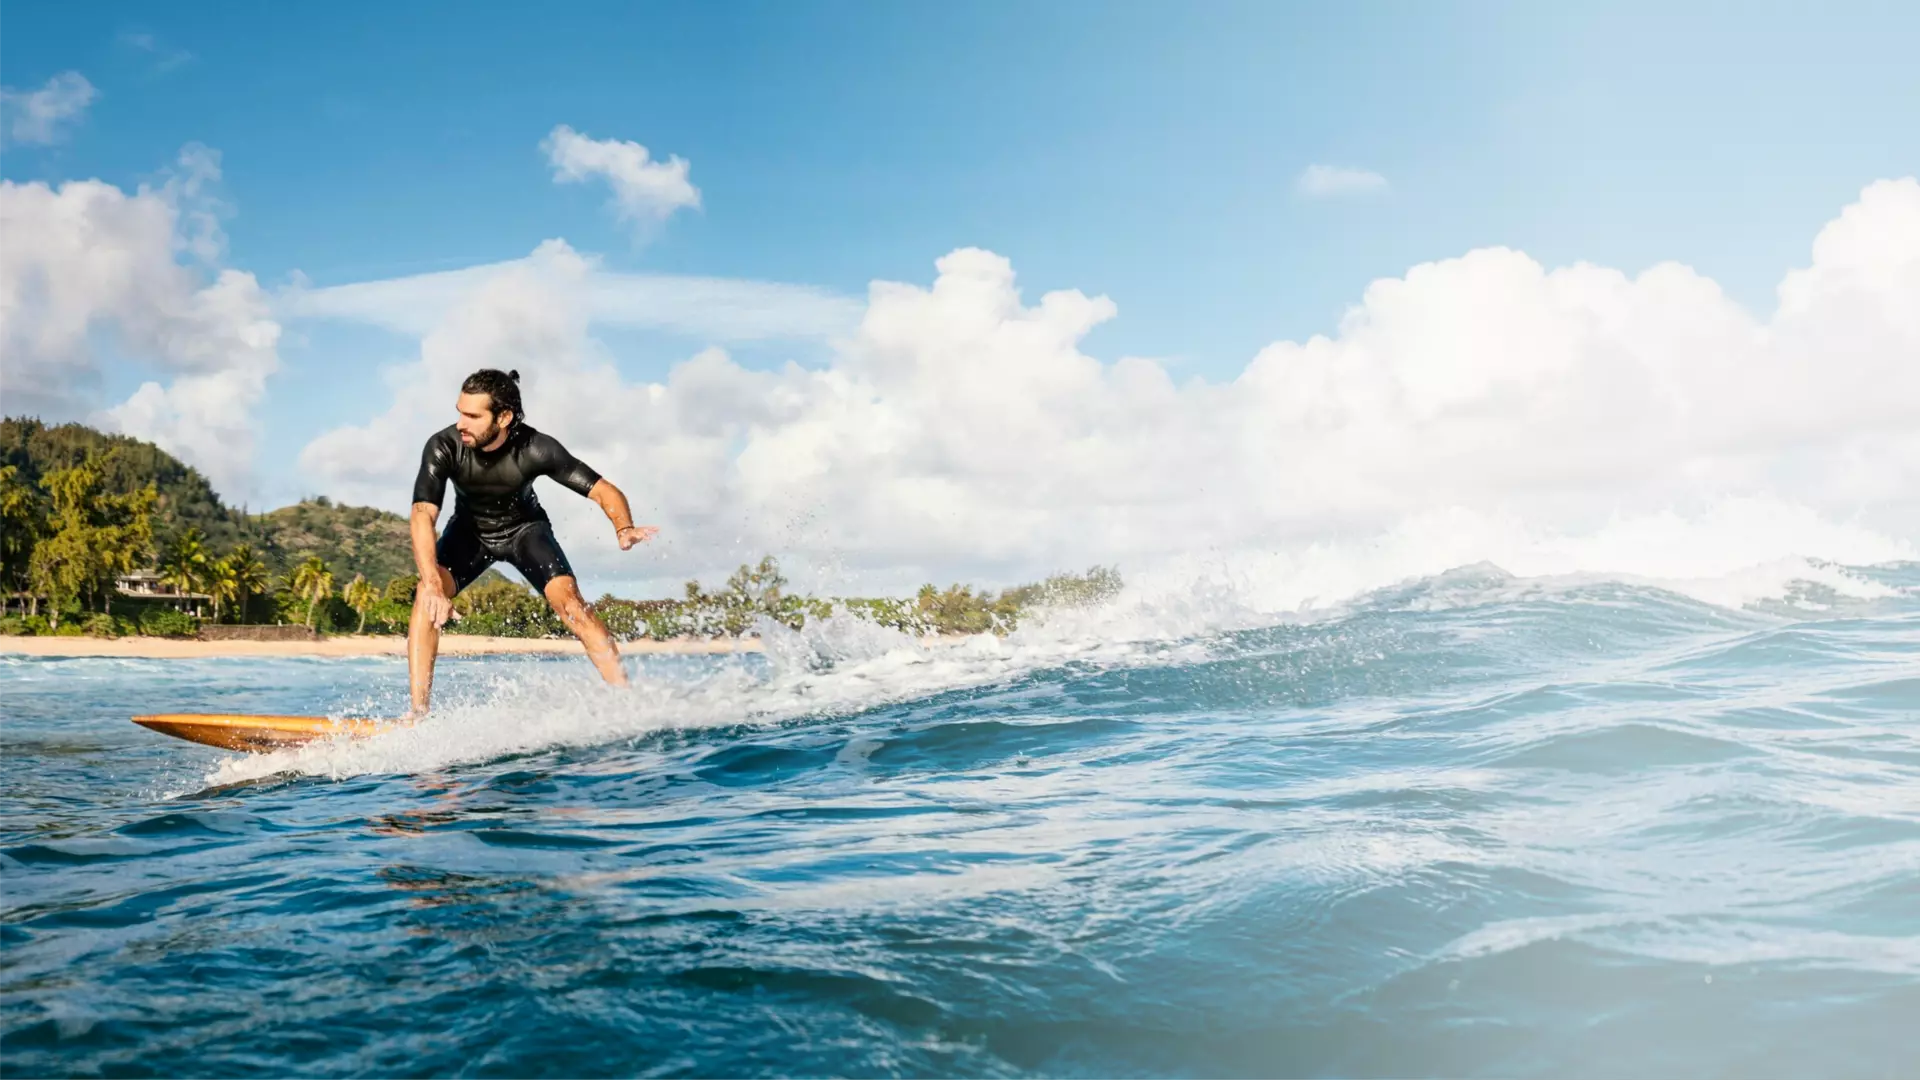
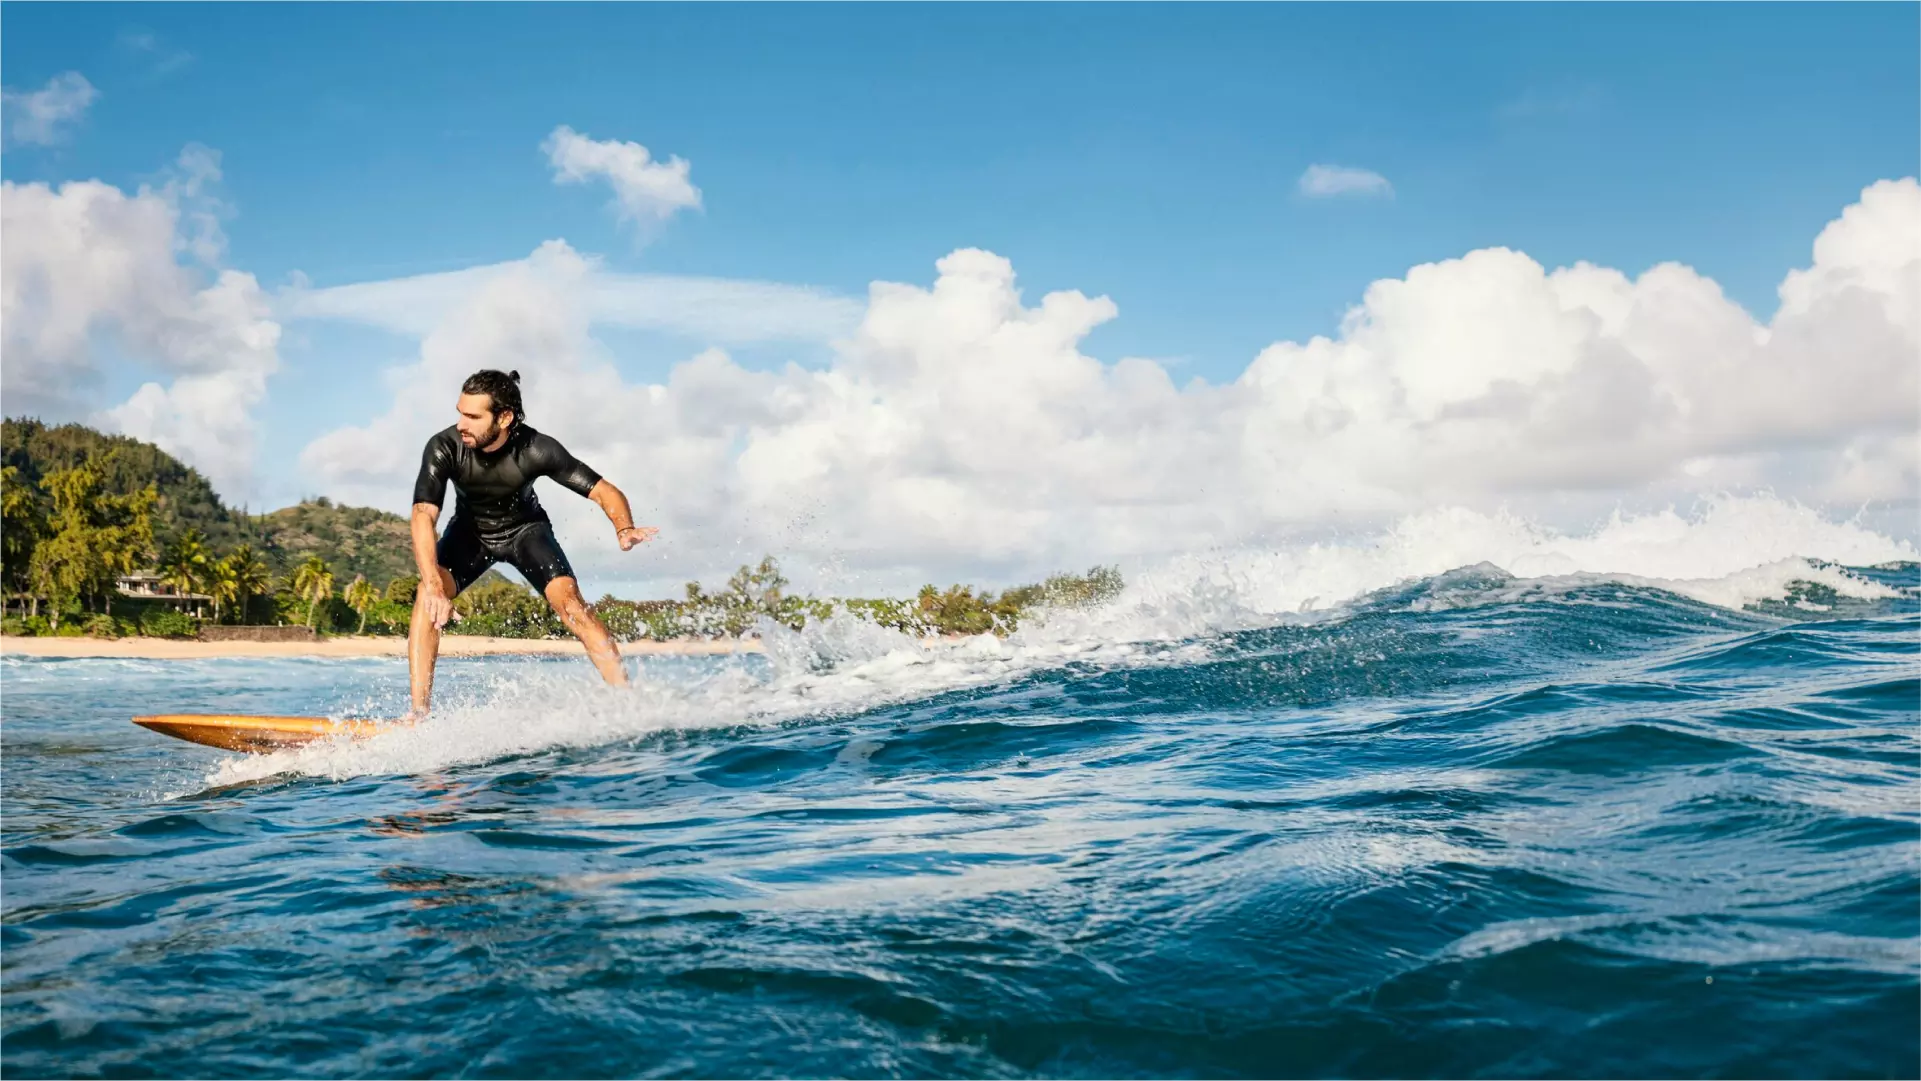
feat: update background images and styles for quiz and main pages; modify color variables

diff --git a/src/styles/global.css b/src/styles/global.css
@@ -25,7 +25,7 @@
   --color-amarillo-abbott: #ffd100;
   --color-morado-abbott: #b50064;
   --color-futzia-abbott: #e22a31;
-  --color-orange-abbott: #e86408;
+  --color-orange-abbott: #ff6900;
 
   --font-brandon: "Brandon", sans-serif;
   --font-georgia: Georgia, serif;
